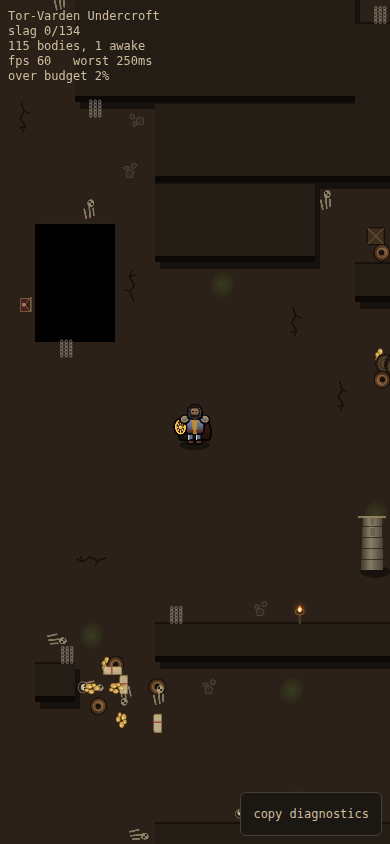
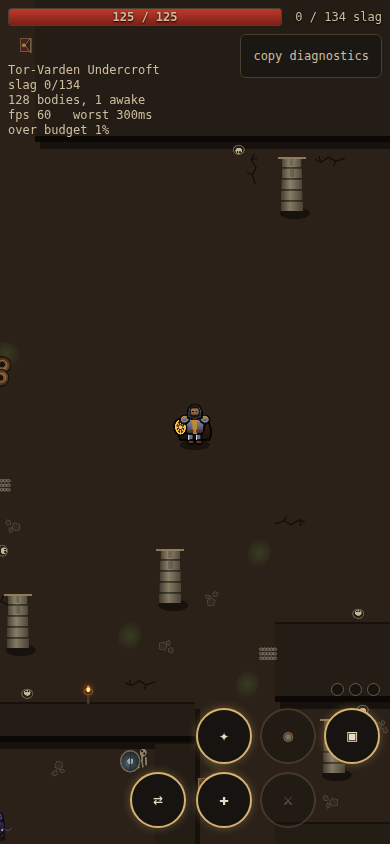
It is playable
The stick moves the hero, the kit casts, and the HUD reads the run. The core
already owned the whole input state machine -- stickStart, stickMove,
stickEnd, moveVector, with its own dead zone and throttle curve -- so this
only feeds it pointer positions, and only pointers that land on the canvas get
there: the HUD is DOM above it and swallows its own events, so a thumb on an
ability button can never drag the hero as well.

The HUD is DOM over the canvas, for the reasons the canvas build put it there:
text stays crisp at any dpr with no font atlas, a button is a real 44px touch
target the browser already handles, and none of it goes down with the
renderer. It reads the core and never writes to it except through the two
calls a player is allowed to make. abilityBlock is the core's own answer to
"can this be pressed", so the HUD never invents a second opinion about it.

smoke-play.cjs, 16 checks, and half of them are about the layout rather than
the logic. That is deliberate: a control off the screen, under another
control, or too small for a thumb is broken however good the code behind it
is, and the canvas build taught that repeatedly -- always by measuring, never
by looking. It caught two straight away. The swap button ran through the
middle of the kit, and the diagnostics button sat squarely on top of the
ability buttons, which is what the first screenshot showed as a kit with its
bottom row missing. A developer affordance is not worth a control you cannot
[…]

diff --git a/phaser/src/hud.js b/phaser/src/hud.js
@@ -1,0 +1,162 @@
+/* The delve's HUD, in DOM over the canvas.
+ *
+ * DOM rather than Phaser text and shapes, for the same reasons the canvas
+ * build put it there: text stays crisp at any dpr without a font atlas, a
+ * button is a real 44px touch target that the browser handles, and none of it
+ * goes down with the renderer. The game is what needs the GPU; a life bar does
+ * not.
+ *
+ * Everything here reads the core and never writes to it except through the
+ * two calls the player is allowed to make: castAbility and swapHero.
+ */
+
+const g = window;   // ONLY for the functions -- see the note in delve.js: a
+                    // top-level const in a classic script never lands on
+                    // window, so constants are read bare and calls are not.
+
+const CSS = `
+#hud{position:fixed;inset:0;pointer-events:none;font:12px ui-monospace,Menlo,monospace;
+     color:#cebe9e;-webkit-user-select:none;user-select:none}
+#hud .top{position:absolute;left:8px;right:8px;top:8px;display:flex;gap:8px;align-items:center}
+#hud .life{flex:1;height:16px;background:#12100d;border:1px solid #4a3f30;border-radius:3px;
+     overflow:hidden;position:relative}
+#hud .life i{display:block;height:100%;background:linear-gradient(#c0392b,#7c2018);
+     transition:width .12s linear}
+#hud .life b{position:absolute;inset:0;display:grid;place-items:center;font-weight:600;
+     text-shadow:0 1px 2px #000}
+#hud .slag{min-width:92px;text-align:right;text-shadow:0 1px 2px #000}
+/* The kit sits bottom-right in two rows of three. Its own bottom edge, the
+   swap beside it rather than above it, and the resource meter over it are all
+   placed so nothing lands on anything else -- measured in the play test, not
+   eyeballed, because the first version put the swap through the middle of the
+   kit and the diagnostics button on top of both. */
+#hud .kit{position:absolute;right:10px;bottom:16px;display:grid;gap:8px;
+     grid-template-columns:repeat(3,56px);pointer-events:auto}
+#hud button{width:56px;height:56px;border-radius:50%;background:#161310;color:#e8dcc0;
+     border:2px solid #6a5a42;font:16px/1 ui-monospace,monospace;padding:0;
+     display:grid;place-items:center;touch-action:manipulation}
+#hud button .cd{position:absolute;font-size:11px;color:#ffd870}
+#hud button:disabled{opacity:.42}
+#hud button.ready{border-color:#d6b26e;box-shadow:0 0 10px rgba(214,178,110,.35)}
+#hud button:active{background:#2a2419}
+#hud .swap{position:absolute;right:204px;bottom:16px;pointer-events:auto}
+#hud .res{position:absolute;right:10px;bottom:148px;display:flex;gap:5px;
+     align-items:center;justify-content:flex-end}
+#hud .pip{width:11px;height:11px;border-radius:50%;border:1px solid #6a5a42;background:#161310}
+#hud .pip.on{background:#ffd870;border-color:#ffd870}
+#hud .tension{width:74px;height:9px;border:1px solid #4a6a7a;background:#0e1418;border-radius:2px}
+#hud .tension i{display:block;height:100%;background:#5fd0ff}
+#hud .beat{position:absolute;left:8px;right:110px;bottom:16px;height:5px;
+     background:#12100d;border:1px solid #3a3226}
+#hud .banner{position:absolute;left:0;right:0;top:38%;text-align:center;font-size:19px;
+     color:#eee0c0;text-shadow:0 2px 6px #000;font-family:Georgia,serif}
+#hud .banner small{display:block;font-size:12px;color:#a89878;margin-top:4px;font-style:italic}
+`;
+
+export class Hud {
+  constructor() {
+    const style = document.createElement('style');
+    style.textContent = CSS;
+    document.head.appendChild(style);
+
+    const root = document.createElement('div');
+    root.id = 'hud';
+    root.innerHTML =
+      '<div class="top">' +
+        '<div class="life"><i></i><b></b></div>' +
+        '<div class="slag"></div>' +
+      '</div>' +
+      '<div class="res"></div>' +
+      '<div class="swap"><button type="button" title="swap">⇄</button></div>' +
+      '<div class="kit"></div>' +
+      '<div class="banner" hidden></div>';
+    document.body.appendChild(root);
+
+    this.root = root;
+    this.lifeFill = root.querySelector('.life i');
+    this.lifeText = root.querySelector('.life b');
+    this.slag = root.querySelector('.slag');
+    this.res = root.querySelector('.res');
+    this.kit = root.querySelector('.kit');
+    this.banner = root.querySelector('.banner');
+    this.swapBtn = root.querySelector('.swap button');
+    this.swapBtn.addEventListener('click', () => g.swapHero());
+
+    this.hero = null;      // which kit is currently built
+    this.sig = '';         // last rendered button state, to skip DOM churn
+  }
+
+  buildKit(hero) {
+    this.kit.innerHTML = '';
+    this.buttons = [];
+    for (const a of ABILITIES[hero]) {
+      const b = document.createElement('button');
+      b.type = 'button';
+      b.dataset.id = a.id;
+      b.title = a.name + ' — ' + a.note;
+      b.innerHTML = '<span>' + a.mark + '</span>';
+      // pointerdown, not click: a click waits for the pointer to come back up,
+      // which on a touch screen is a beat you can feel in a fight.
+      b.addEventListener('pointerdown', e => { e.preventDefault(); g.castAbility(a.id); });
+      this.kit.appendChild(b);
+      this.buttons.push(b);
+    }
+    this.hero = hero;
+  }
+
+  sync() {
+    const p = player;
+    if (!p) return;
+    if (this.hero !== p.hero) this.buildKit(p.hero);
+
+    const f = Math.max(0, p.hp) / p.maxHp;
+    this.lifeFill.style.width = (f * 100).toFixed(1) + '%';
+    this.lifeText.textContent = Math.ceil(Math.max(0, p.hp)) + ' / ' + Math.round(p.maxHp);
+    this.slag.textContent = (run.tech | 0) + ' / ' + LEVEL.quota + ' slag';
+
+    // The resource: Isaac counts charges, Zayd fills a pool. Rebuilt only when
+    // the shape changes, so a bar that ticks every frame does not rewrite the
+    // DOM every frame with it.
+    const isIsaac = p.hero === 'isaac';
+    const resSig = isIsaac ? 'c' + (p.charges | 0) : 't' + Math.round((p.tension || 0) / 2);
+    if (this.resSig !== resSig) {
+      this.resSig = resSig;
+      if (isIsaac) {
+        this.res.innerHTML = Array.from({ length: CHARGE_MAX }, (_, i) =>
+          '<span class="pip' + (i < (p.charges | 0) ? ' on' : '') + '"></span>').join('');
+      } else {
+        const pct = (100 * (p.tension || 0) / TENSION_MAX).toFixed(0);
+        this.res.innerHTML = '<span class="tension"><i style="width:' + pct + '%"></i></span>';
+      }
+    }
+
+    // Buttons. abilityBlock is the core's own answer to "can this be pressed",
+    // so the HUD never invents a second opinion about it.
+    let sig = '';
+    for (const b of this.buttons) {
+      const a = ABILITY_BY_ID[b.dataset.id];
+      const why = g.abilityBlock(a);
+      const cd = (p.cds && p.cds[a.id]) || 0;
+      const s = why + '|' + Math.ceil(cd);
+      sig += s + ';';
+      if (b.__s !== s) {
+        b.__s = s;
+        b.disabled = !!why && why !== 'gcd';
+        b.classList.toggle('ready', !why);
+        b.querySelector('span').textContent = cd > 0 ? Math.ceil(cd) : a.mark;
+      }
+    }
+    const swapWhy = g.swapBlocked();
+    this.swapBtn.disabled = !!swapWhy && swapWhy !== 'gcd';
+    this.swapBtn.classList.toggle('ready', !swapWhy);
+    this.swapBtn.textContent = (p.swapCd || 0) > 0 ? Math.ceil(p.swapCd) : '⇄';
+
+    if (run.banner > 0 && run.bannerText) {
+      this.banner.hidden = false;
+      this.banner.innerHTML = run.bannerText +
+        (run.bannerNote ? '<small>' + run.bannerNote + '</small>' : '');
+    } else if (!this.banner.hidden) {
+      this.banner.hidden = true;
+    }
+  }
+}

diff --git a/phaser/src/delve.js b/phaser/src/delve.js
@@ -12,6 +12,7 @@
  */
 import Phaser from 'phaser';
 import { FrameLog, collect, asText, mountButton } from './diagnostics.js';
+import { Hud } from './hud.js';
 
 // The core's palette is CSS hex strings; Phaser wants numbers.
 const hex = (css, fallback) => {
@@ -34,7 +35,10 @@ const SS = 2;      // art/ is exported at 2x, which is native for it
  * esbuild leaves free identifiers alone, so these resolve up the scope chain
  * at run time exactly as they do in the canvas build.
  */
-/* global walls, props, enemies, player, run, cam, view, state, stash,
+/* global walls, props, enemies, player, run, cam, view, state, stash, stick,
+          keys, stickStart, stickMove, stickEnd, STICK_MAX, castAbility,
+          swapHero, swapBlocked, abilityBlock, ABILITIES, ABILITY_BY_ID,
+          CHARGE_MAX, TENSION_MAX,
           WORLD, PAL, LEVEL, LEVELS, GAIT_N, GAIT_STEP, GAIT_STILL,
           WALK_STEP, WALK_PACE, update, startRun, loadStash */
 
@@ -80,14 +84,20 @@ export class Delve extends Phaser.Scene {
 
     // Depth bands, so a body never sorts against a wall or the floor.
     this.pool = [];          // body sprites, grown to fit and never shrunk
+    this.stickGfx = this.add.graphics().setScrollFactor(0).setDepth(9e5);
     this.hero = this.add.sprite(this.stepping ? player.x : 200,
                                this.stepping ? player.y : 200, 'art', 'heroes/isaac-rest');
     this.hero.setScale(1 / SS).setDepth(1e5);
 
     if (this.stepping) this.cameras.main.startFollow(this.hero, true, 0.18, 0.18);
 
+    this.wireInput();
+    this.hud = new Hud();
+
     this.log = new FrameLog(240);
-    this.hud = this.add.text(8, 8, '', {
+    // `dbg`, not `hud`: the DOM HUD is this.hud, and naming both the same
+    // silently replaced one with the other.
+    this.dbg = this.add.text(8, 62, '', {
       fontFamily: 'ui-monospace, monospace', fontSize: '12px', color: '#cebe9e'
     }).setScrollFactor(0).setDepth(1e6);
 
@@ -181,6 +191,53 @@ export class Delve extends Phaser.Scene {
     return 'heroes/' + p.hero + (run ? '-run-' : '-walk-') + f;
   }
 
+  /* The stick.
+   *
+   * The core already owns the whole state machine -- stickStart, stickMove,
+   * stickEnd and moveVector, with its own dead zone and throttle curve -- so
+   * this only feeds it pointer positions. Phaser's pointer.x/y are already in
+   * game space, which is what those functions expect.
+   *
+   * Only pointers that land on the canvas get here: the HUD is DOM above it
+   * and swallows its own events, so a thumb on an ability button can never
+   * drag the hero as well.
+   */
+  wireInput() {
+    this.input.addPointer(2);          // a thumb to move, a thumb for the kit
+    this.input.on('pointerdown', pt => {
+      if (state !== 'play') return;
+      if (stick.active) return;        // one finger owns the stick at a time
+      stickStart(pt.id, pt.x, pt.y);
+    });
+    this.input.on('pointermove', pt => {
+      if (stick.active && pt.id === stick.id) stickMove(pt.x, pt.y);
+    });
+    const release = pt => { if (stick.active && pt.id === stick.id) stickEnd(); };
+    this.input.on('pointerup', release);
+    this.input.on('pointerupoutside', release);
+    this.input.on('gameout', () => stickEnd());
+
+    // Desktop: the same keys the canvas build takes, into the same Set.
+    this.input.keyboard?.on('keydown', e => keys.add(e.key.toLowerCase()));
+    this.input.keyboard?.on('keyup',   e => keys.delete(e.key.toLowerCase()));
+    // A window that loses focus mid-delve must not leave a key held down.
+    window.addEventListener('blur', () => { keys.clear(); stickEnd(); });
+  }
+
+  /* The stick, drawn where the thumb put it. Two rings: where the finger went
+   * down, and where it is now. Screen space, so it does not scroll with the
+   * world.
+   */
+  drawStick() {
+    const gfx = this.stickGfx;
+    gfx.clear();
+    if (!stick.active) return;
+    gfx.lineStyle(2, 0xd6b26e, 0.45);
+    gfx.strokeCircle(stick.ox, stick.oy, STICK_MAX);
+    gfx.fillStyle(0xd6b26e, 0.30);
+    gfx.fillCircle(stick.x, stick.y, 18);
+  }
+
   update(time, dtMs) {
     const dt = Math.min(0.05, dtMs / 1000);      // the core's own MAX_DT clamp
     if (this.stepping && state === 'play') update(dt);
@@ -216,10 +273,13 @@ export class Delve extends Phaser.Scene {
     if (this.hero.frame.name !== hk && this.textures.getFrame('art', hk)) this.hero.setFrame(hk);
     this.hero.setPosition(player.x, player.y).setFlipX(player.face < 0);
 
+    this.drawStick();
+    this.hud.sync();
+
     this.log.tick(time);
     const st = this.log.stats();
     if (st && (time | 0) % 8 === 0) {
-      this.hud.setText(
+      this.dbg.setText(
         LEVEL.name + '\n' +
         'slag ' + (run.tech | 0) + '/' + LEVEL.quota + '\n' +
         live.length + ' bodies, ' + (run.awake || 0) + ' awake\n' +

diff --git a/phaser/src/diagnostics.js b/phaser/src/diagnostics.js
@@ -130,9 +130,12 @@ export function mountButton(getReport) {
     '<div id="diagHint">clipboard unavailable — select all and copy</div></div>';
   const css = document.createElement('style');
   css.textContent =
-    '#diag{position:fixed;right:8px;bottom:8px;z-index:50;font:12px ui-monospace,monospace}' +
+    // Top-right, out of the thumbs. It used to sit bottom-right, where it
+    // landed squarely on the ability buttons -- a developer affordance is
+    // not worth a control you cannot press.
+    '#diag{position:fixed;right:8px;top:34px;z-index:50;font:12px ui-monospace,monospace}' +
     '#diagBtn{background:#1b1712;color:#cebe9e;border:1px solid #4a3f30;border-radius:6px;' +
-      'padding:10px 12px;font:inherit;min-height:44px}' +   // 44px: a thumb target
+      'padding:10px 12px;font:inherit;min-height:44px;min-width:44px}' +   // 44px: a thumb target
     '#diagBtn:active{background:#2a2419}' +
     '#diagOut{position:fixed;inset:8px;background:#0b0908;border:1px solid #4a3f30;' +
       'border-radius:8px;padding:8px;display:flex;flex-direction:column;gap:6px}' +

diff --git a/phaser/README.md b/phaser/README.md
@@ -49,12 +49,26 @@ Done, and verified by `phasersmoke.js`:
   *software* GL rasteriser, where the canvas build was labouring at 54. A
   phone GPU is the real test, but the direction is not in doubt.
 
-The delve draws now — walls, scenery, the horde and the hero, off the core's
-own state, at 60fps with a 4ms one-off bake. `npm run smoke:delve`, 10 checks.
+**It is playable.** The delve draws — walls, scenery, the horde and the hero,
+off the core's own state, at 60fps with a 4ms one-off bake. The stick moves
+the hero, the kit casts, the HUD reads the run.
 
-Not started: input, the HUD, the DOM menus, and the stone dressing on the
-walls (the coursed ashlar is procedural canvas art and is not in the atlas
-yet, so walls show as their lit top face).
+| | |
+|---|---|
+| `npm run smoke:delve` | 10 checks — the world draws, the gait is distance-driven |
+| `npm run smoke:play` | 16 checks — the stick, the kit, and the HUD's layout |
+| `npm run smoke` | 13 checks — the proving scene and the diagnostics dump |
+| `npm run verify` | the canvas suites against the extracted core |
+
+The HUD is DOM over the canvas, as it is in the canvas build: text stays crisp
+at any dpr without a font atlas, a button is a real 44px touch target, and none
+of it goes down with the renderer. The game is what needs the GPU; a life bar
+does not.
+
+Not started: the DOM menus (gate-house, forge, vendor), the floating combat
+text and particle layer, and the stone dressing on the walls — the coursed
+ashlar is procedural canvas art and is not in the atlas yet, so walls show as
+their lit top face.
 
 ## On the phone
 
